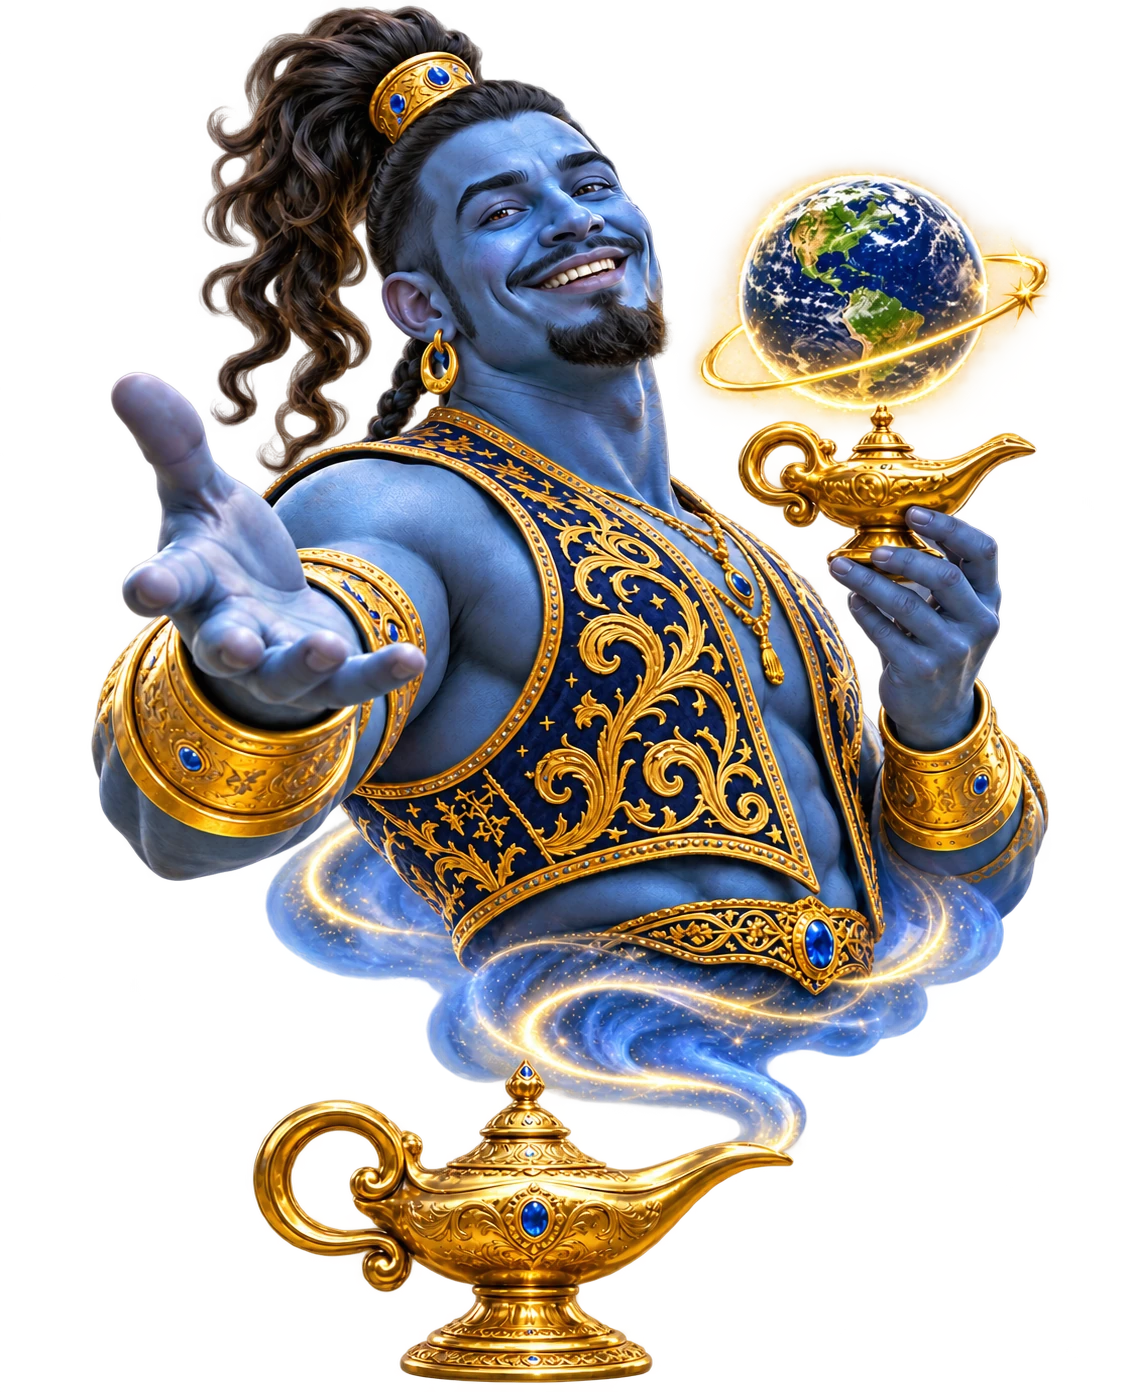
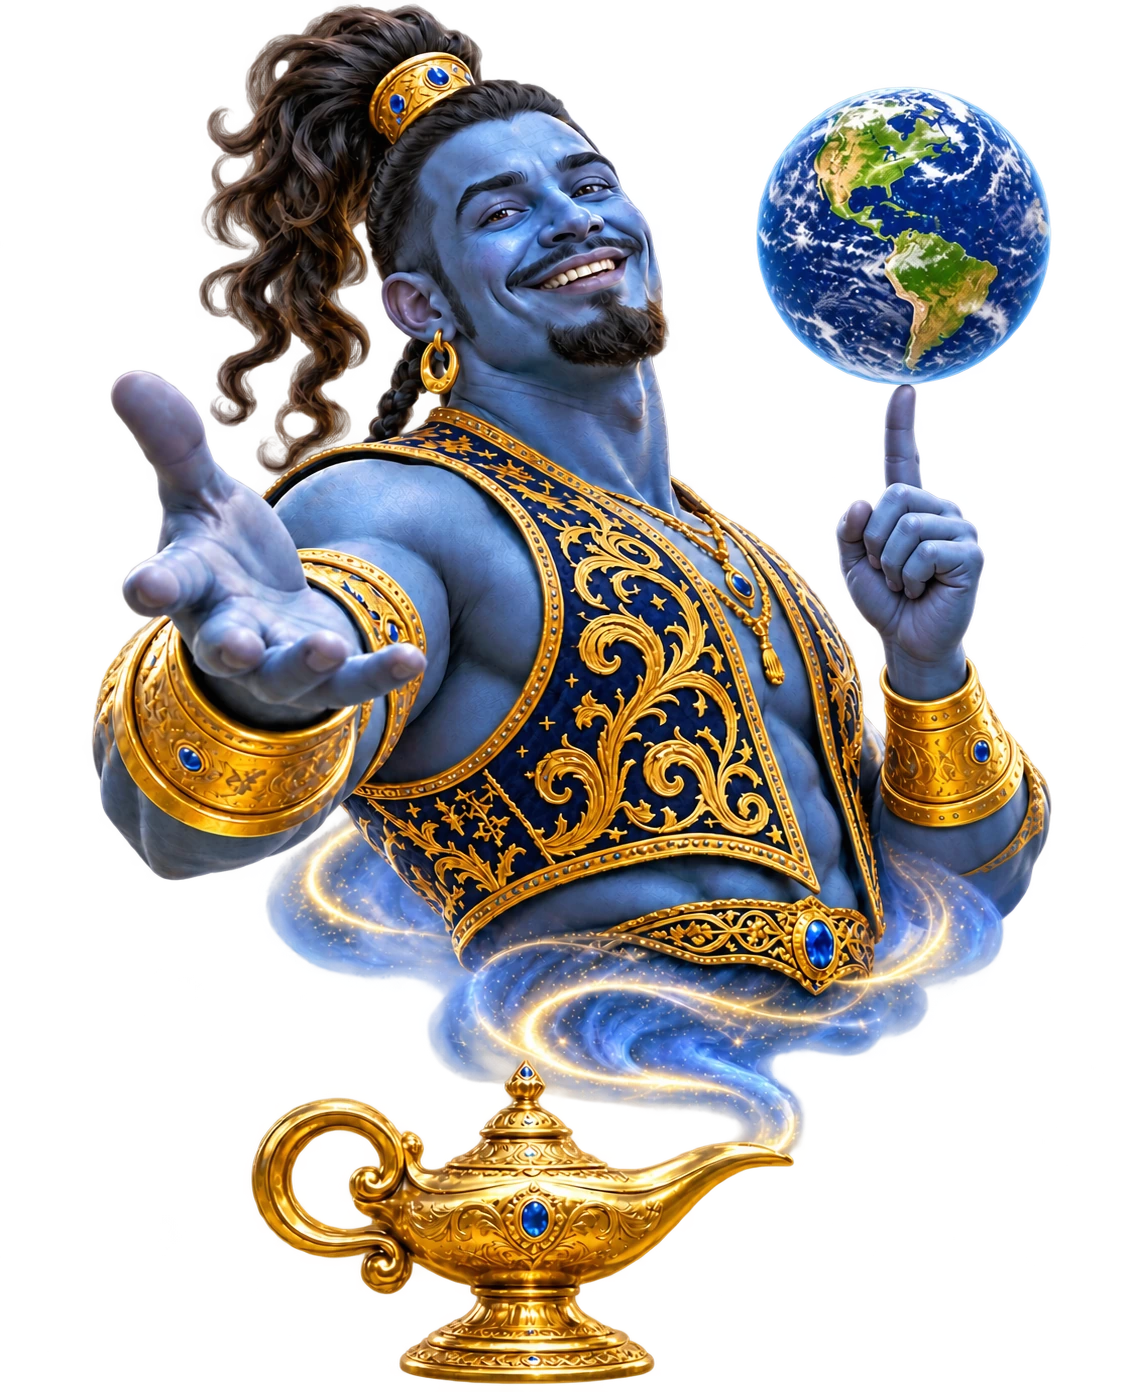
Spin globe on Xucin finger and remove orbital ring

diff --git a/src/lib/xucuz-world-copy.ts b/src/lib/xucuz-world-copy.ts
@@ -4,7 +4,7 @@ export const worldCopy={
  tr:{
   home:'Ana sayfa',ai:'Xucuz AI',passport:'Passport',travel:'Travel',market:'Market',business:'Business',radar:'Radar',
   currency:'Para birimi tercihi',eyebrow:'DÜNYAYI KEŞFET · AKILLI SEÇİMLER YAP',heroTitle:'Dünyayı keşfet.\nDaha bilinçli seç.',heroLead:'Alışveriş, seyahat ve keşif için tek bir küresel deneyim. Kaynağı doğrulanmayan fiyatı gerçekmiş gibi göstermiyoruz.',
-  askAi:'Xucin’e sor',openPassport:'Passport’u keşfet',genieAlt:'Xucuz’un altın lambasından çıkan, dünya küresini sunan mavi cini',searchLabel:'Doğrulanmış fiyatlarda ara',searchPlaceholder:'Ürün adı yaz…',searchButton:'Ara',
+  askAi:'Xucin’e sor',openPassport:'Passport’u keşfet',genieAlt:'Xucuz’un altın lambasından çıkan, işaret parmağında dünyayı döndüren mavi cini',searchLabel:'Doğrulanmış fiyatlarda ara',searchPlaceholder:'Ürün adı yaz…',searchButton:'Ara',
   magicNavShop:'Dükkan',magicNavPrice:'Fiyat Dedektifi',magicNavBasket:'Sepetini Kurtar',magicNavDiscover:'Keşif Turu',magicKicker:'XUCİN’İN SİHİRLİ DÜKKÂNI',magicTitleFirst:'Alışverişin',magicTitleSecond:'sihirli yolu burada',magicLead:'Gerçek fiyatı bul. Sepetini hesapla. Yeni yerler keşfet.',magicSearchPlaceholder:'Bugün ne arıyorsun?',magicSearchButton:'Ara',magicSearchNote:'Yalnızca doğrulanmış fiyat gözlemleri',magicPortalsLabel:'Xucin’in keşif portalları',magicPriceTitle:'Fiyat Dedektifi',magicPriceBody:'Onaylı fiyat gözlemlerini kaynağıyla bul.',magicBasketTitle:'Sepetini Kurtar',magicBasketBody:'Birim fiyatı ve toplam maliyeti hesapla.',magicDiscoveryTitle:'Keşif Turu',magicDiscoveryBody:'Şehirleri ve yerel rehberleri keşfet.',magicVoiceButton:'Xucin anlatsın',magicVoiceStop:'Anlatımı durdur',magicVoiceLine:'Hangi kapıdan başlayalım? Seçim senin.',magicVoiceUnsupported:'Bu cihazda sesli anlatım kullanılamıyor.',magicTrustNoGuess:'Fiyat uydurmayız',magicTrustSource:'Kaynağı görünür bilgiler',magicAfterword:'İhtiyacın olan rehberi seç; doğrulanmayan bilgiye fiyat etiketi takmayız.',
   verified:'Kaynağı belli',verifiedBody:'Fiyatlarda onay, kaynak, para birimi ve tarih görünür.',noGuess:'Tahmin yok',noGuessBody:'Bağlı kaynak yoksa fiyat gösterilmez.',global:'Dünya için tasarlandı',globalBody:'TR, EN ve RU arayüzü; çoklu para birimi tercihi.',
   modulesTitle:'Xucuz dünyasını keşfet',modulesLead:'Her bölüm aynı ilkeye bağlı: veri kaynağı ve gerçek durum açıkça görünür.',
@@ -37,7 +37,7 @@ export const worldCopy={
  en:{
   home:'Home',ai:'Xucuz AI',passport:'Passport',travel:'Travel',market:'Market',business:'Business',radar:'Radar',
   currency:'Currency preference',eyebrow:'EXPLORE THE WORLD · CHOOSE WITH CONFIDENCE',heroTitle:'Explore the world.\nChoose with clarity.',heroLead:'One global experience for shopping, travel, and discovery. We never present an unverified price as real.',
-  askAi:'Ask Xucin',openPassport:'Explore Passport',genieAlt:'Xucuz’s blue genie emerging from a golden lamp and presenting the globe',searchLabel:'Search verified prices',searchPlaceholder:'Product name…',searchButton:'Search',
+  askAi:'Ask Xucin',openPassport:'Explore Passport',genieAlt:'Xucuz’s blue genie emerging from a golden lamp and spinning the globe on one finger',searchLabel:'Search verified prices',searchPlaceholder:'Product name…',searchButton:'Search',
   magicNavShop:'Shop',magicNavPrice:'Price Detective',magicNavBasket:'Save Your Basket',magicNavDiscover:'Explore',magicKicker:'XUCIN’S MAGIC SHOP',magicTitleFirst:'Shopping’s',magicTitleSecond:'magical path starts here',magicLead:'Find verified prices. Calculate your basket. Discover new places.',magicSearchPlaceholder:'What are you looking for today?',magicSearchButton:'Search',magicSearchNote:'Only verified price observations',magicPortalsLabel:'Xucin’s discovery portals',magicPriceTitle:'Price Detective',magicPriceBody:'Find approved price observations with their sources.',magicBasketTitle:'Save Your Basket',magicBasketBody:'Calculate unit prices and total cost.',magicDiscoveryTitle:'Explore',magicDiscoveryBody:'Discover cities and local guides.',magicVoiceButton:'Let Xucin speak',magicVoiceStop:'Stop narration',magicVoiceLine:'Which portal shall we explore first? You choose.',magicVoiceUnsupported:'Spoken narration is not available on this device.',magicTrustNoGuess:'No invented prices',magicTrustSource:'Sources stay visible',magicAfterword:'Choose the guide you need. We never label unverified information as a price.',
   verified:'Sources are visible',verifiedBody:'Price entries show approval, source, currency, and date.',noGuess:'No guessing',noGuessBody:'If a source is not connected, no price is shown.',global:'Made for the world',globalBody:'TR, EN, and RU interface with a currency preference.',
   modulesTitle:'Explore Xucuz World',modulesLead:'Every section follows one rule: make the source and real status clear.',
@@ -70,7 +70,7 @@ export const worldCopy={
  ru:{
   home:'Главная',ai:'Xucuz AI',passport:'Паспорт',travel:'Путешествия',market:'Маркет',business:'Бизнес',radar:'Радар',
   currency:'Предпочитаемая валюта',eyebrow:'ОТКРЫВАЙТЕ МИР · ВЫБИРАЙТЕ ОСОЗНАННО',heroTitle:'Открывайте мир.\nВыбирайте уверенно.',heroLead:'Единая глобальная платформа для покупок, путешествий и открытий. Мы не выдаём непроверенную цену за настоящую.',
-  askAi:'Спросить Xucin',openPassport:'Открыть паспорт',genieAlt:'Синий джинн Xucuz выходит из золотой лампы и держит земной шар',searchLabel:'Поиск подтверждённых цен',searchPlaceholder:'Название товара…',searchButton:'Найти',
+  askAi:'Спросить Xucin',openPassport:'Открыть паспорт',genieAlt:'Синий джинн Xucuz выходит из золотой лампы и крутит земной шар на пальце',searchLabel:'Поиск подтверждённых цен',searchPlaceholder:'Название товара…',searchButton:'Найти',
   magicNavShop:'Лавка',magicNavPrice:'Детектив цен',magicNavBasket:'Экономия корзины',magicNavDiscover:'Путешествие',magicKicker:'ВОЛШЕБНАЯ ЛАВКА XUCIN',magicTitleFirst:'Покупки',magicTitleSecond:'станут проще',magicLead:'Ищите подтверждённые цены. Считайте корзину. Открывайте новые места.',magicSearchPlaceholder:'Что ищете сегодня?',magicSearchButton:'Найти',magicSearchNote:'Только подтверждённые наблюдения цен',magicPortalsLabel:'Порталы открытий Xucin',magicPriceTitle:'Детектив цен',magicPriceBody:'Ищите одобренные наблюдения цен с указанием источника.',magicBasketTitle:'Экономия корзины',magicBasketBody:'Рассчитайте цену за единицу и общую стоимость.',magicDiscoveryTitle:'Путешествие',magicDiscoveryBody:'Открывайте города и местные путеводители.',magicVoiceButton:'Пусть Xucin расскажет',magicVoiceStop:'Остановить рассказ',magicVoiceLine:'С какого портала начнём? Выбирайте сами.',magicVoiceUnsupported:'Голосовой рассказ недоступен на этом устройстве.',magicTrustNoGuess:'Без выдуманных цен',magicTrustSource:'Источники открыты',magicAfterword:'Выберите нужный путеводитель. Непроверенные данные не выдаются за цены.',
   verified:'Источник виден',verifiedBody:'Указаны подтверждение, источник, валюта и дата цены.',noGuess:'Без догадок',noGuessBody:'Если источник не подключён, цена не показывается.',global:'Для всего мира',globalBody:'Интерфейс TR, EN и RU, выбор валюты.',
   modulesTitle:'Откройте Xucuz World',modulesLead:'В каждом разделе мы ясно показываем источник и фактический статус.',

diff --git a/src/app/xucuz-world.css b/src/app/xucuz-world.css
@@ -72,10 +72,10 @@
 @media(prefers-reduced-motion:reduce){.magic-portal,.magic-portal-arrow{transition:none}}
 .world-footer-inner.world-footer-compact{display:flex;align-items:center;justify-content:space-between;gap:18px;padding:14px 0}.world-footer-inner.world-footer-compact nav{gap:14px}.world-footer-inner.world-footer-compact nav a{font-size:10px}.world-footer-inner.world-footer-compact .world-footer-bottom{padding:0;border:0;color:#9aabc0;font-size:9px}
 @media(max-width:640px){.world-footer-inner.world-footer-compact{align-items:flex-start;flex-direction:column;gap:10px;padding:13px 0}.world-footer-inner.world-footer-compact nav{gap:12px}}
-.magic-world-orbit{position:absolute;z-index:2;top:16%;right:-5%;display:grid;place-items:center;width:clamp(150px,18vw,220px);aspect-ratio:1;filter:drop-shadow(0 0 22px #1cbfff96)}.magic-world-globe{position:relative;z-index:1;width:74%;aspect-ratio:1}.magic-world-globe svg{display:block;width:100%;height:100%;overflow:hidden}.magic-world-land-track{transform-box:fill-box;transform-origin:left center;animation:magic-world-map-roll 16s linear infinite}.magic-world-land{filter:drop-shadow(0 0 2px #4fffc6)}.magic-world-meridian{transform-box:fill-box;transform-origin:center;animation:magic-world-meridian-roll 8s ease-in-out infinite}.magic-world-meridian-two{animation-delay:-4s}.magic-world-orbit-ring{position:absolute;inset:18% -14%;border:2px solid #ffd975;border-left-color:#52e8ff;border-right-color:#52e8ff;border-radius:50%;transform:rotate(-27deg);box-shadow:0 0 15px #38d9ff99;animation:magic-world-ring-turn 7s linear infinite}.magic-world-spark{position:absolute;z-index:2;color:#ffe7a1;text-shadow:0 0 12px #ffd25e}.magic-world-spark-one{top:0;right:2%;font-size:19px}.magic-world-spark-two{bottom:3%;left:2%;font-size:16px}@keyframes magic-world-map-roll{from{transform:translateX(0)}to{transform:translateX(-33.333%)}}@keyframes magic-world-meridian-roll{0%,100%{transform:scaleX(1)}50%{transform:scaleX(.18)}}@keyframes magic-world-ring-turn{from{transform:rotate(-27deg)}to{transform:rotate(333deg)}}
+.magic-world-orbit{position:absolute;z-index:2;top:16%;right:-5%;display:grid;place-items:center;width:clamp(150px,18vw,220px);aspect-ratio:1;filter:drop-shadow(0 0 22px #1cbfff96)}.magic-world-globe{position:relative;z-index:1;width:74%;aspect-ratio:1}.magic-world-globe svg{display:block;width:100%;height:100%;overflow:hidden}.magic-world-land-track{transform-box:fill-box;transform-origin:left center;animation:magic-world-map-roll 16s linear infinite}.magic-world-land{filter:drop-shadow(0 0 2px #4fffc6)}.magic-world-meridian{transform-box:fill-box;transform-origin:center;animation:magic-world-meridian-roll 8s ease-in-out infinite}.magic-world-meridian-two{animation-delay:-4s}.magic-world-spark{position:absolute;z-index:2;color:#ffe7a1;text-shadow:0 0 12px #ffd25e}.magic-world-spark-one{top:0;right:2%;font-size:19px}.magic-world-spark-two{bottom:3%;left:2%;font-size:16px}@keyframes magic-world-map-roll{from{transform:translateX(0)}to{transform:translateX(-33.333%)}}@keyframes magic-world-meridian-roll{0%,100%{transform:scaleX(1)}50%{transform:scaleX(.18)}}
 @media(max-width:700px){.magic-world-orbit{top:25%;right:-2%;width:118px}.magic-world-globe{width:74%}.magic-world-spark-one{font-size:14px}.magic-world-spark-two{font-size:12px}}
-@media(prefers-reduced-motion:reduce){.magic-world-land-track,.magic-world-meridian,.magic-world-orbit-ring{animation:none}}
+@media(prefers-reduced-motion:reduce){.magic-world-land-track,.magic-world-meridian{animation:none}}
 .magic-mascot-wrap{min-height:480px}.magic-mascot{width:auto;height:100%;max-width:100%;mix-blend-mode:normal}
-.magic-world-orbit{top:8%;right:5%;width:clamp(138px,14vw,170px)}
+.magic-world-orbit{top:0%;right:5%;width:clamp(138px,14vw,170px)}
 @media(max-width:960px){.magic-mascot{width:auto;height:100%;max-width:100%}}
-@media(max-width:700px){.magic-mascot-wrap{width:min(90vw,360px);height:min(112vw,430px);min-height:0}.magic-mascot{width:auto;height:100%;max-width:100%}.magic-world-orbit{top:7%;right:4%;width:clamp(126px,39vw,150px)}}
+@media(max-width:700px){.magic-mascot-wrap{width:min(90vw,360px);height:min(112vw,430px);min-height:0}.magic-mascot{width:auto;height:100%;max-width:100%}.magic-world-orbit{top:0%;right:4%;width:clamp(126px,39vw,150px)}}

diff --git a/src/components/xucuz-world-home.tsx b/src/components/xucuz-world-home.tsx
@@ -41,7 +41,6 @@ export function XucuzWorldHome(){
       <span className="magic-mascot-halo" aria-hidden="true"/>
       <Image className="magic-mascot" src="/xucuz-genie-selected.webp" alt={t('genieAlt')} width={1130} height={1392} priority sizes="(max-width: 700px) 90vw, 38vw"/>
       <span className="magic-world-orbit" aria-hidden="true">
-       <span className="magic-world-orbit-ring"/>
        <span className="magic-world-globe">
         <svg viewBox="0 0 180 180" focusable="false">
          <defs>
